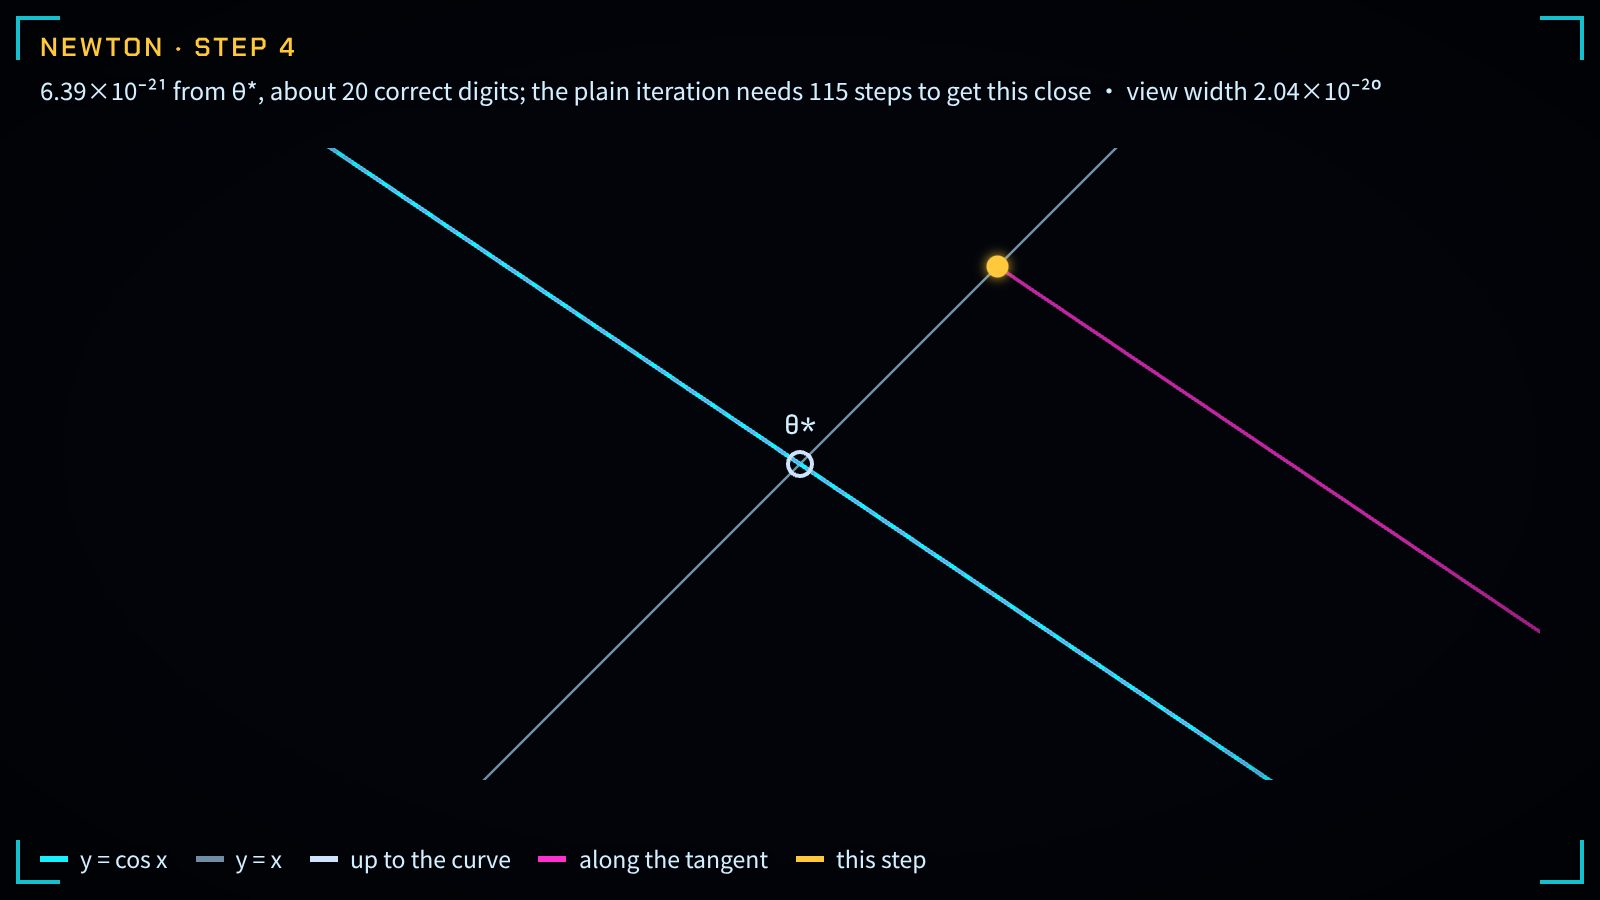
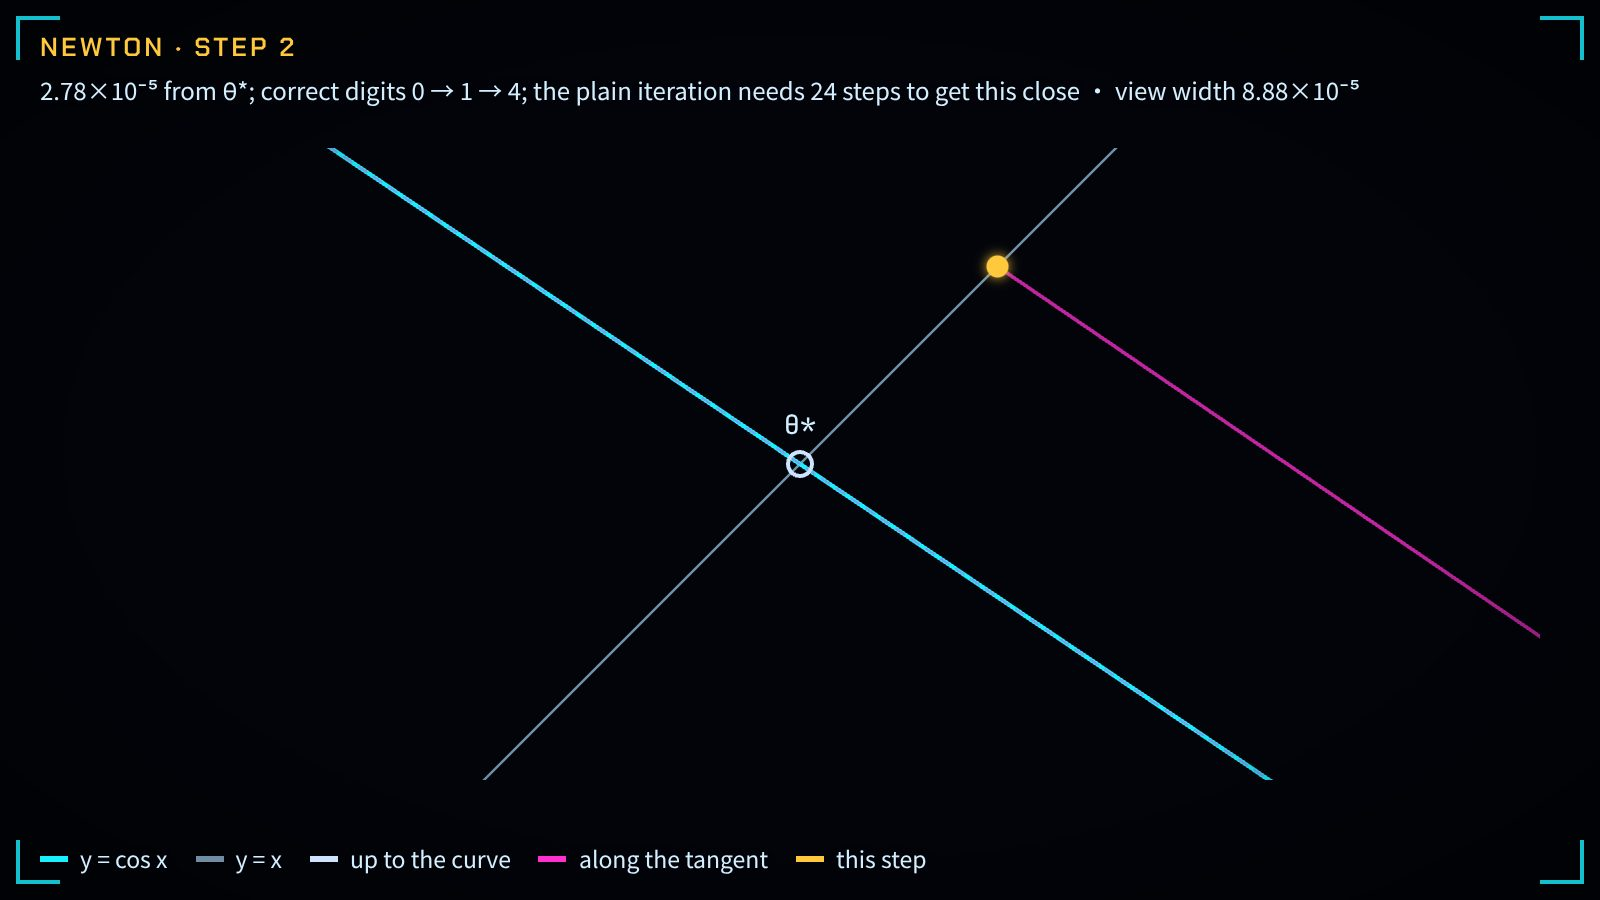
ch24: newton card stops at step 2 with its digit trail, full lab moved to the end of 24.5, two-series caption names the shared path

diff --git a/books/quantum-geometry/viz/fixed-point-convergence/main.js b/books/quantum-geometry/viz/fixed-point-convergence/main.js
@@ -280,9 +280,10 @@
           ? L('靠近 θ* 之后，每步误差乘以接近 −0.674 的数，而不是全局界的 0.8415；负号让折线一左一右地夹住不动点。', 'Near θ* each step multiplies the error by a number close to −0.674, not by the global 0.8415; the minus sign makes the path close in from alternating sides.')
           : L('从 1 出发，读数依次是 2、3/2、5/3、8/5……，相邻斐波那契数之比；每步误差乘以接近 −1/φ² ≈ −0.382 的数。', 'From 1 the readings are 2, 3/2, 5/3, 8/5, …, ratios of consecutive Fibonacci numbers; each step multiplies the error by a number close to −1/φ² ≈ −0.382.');
       } else {
-        const ps = picardSteps(S.map, S.x0c), digits = e > 0 ? Math.max(0, Math.floor(-Math.log10(e))) : 70;
+        const ps = picardSteps(S.map, S.x0c), dig = (x) => (x > 0 ? Math.max(0, Math.floor(-Math.log10(x))) : 70), digits = dig(e);
+        const trail = O.u.slice(0, kk + 1).map((x) => dig(Math.abs(x))).join(' → ');
         $('hudBig').textContent = L(`牛顿 · 第 ${kk} 步`, `NEWTON · STEP ${kk}`);
-        $('hudSub').textContent = L(`离 ${M.sym} 还差 ${sci(e)}，约 ${digits} 位正确；单纯迭代要走 ${ps[kk] == null ? '300 多' : ps[kk]} 步才到这么近`, `${sci(e)} from ${M.sym}, about ${digits} correct digits; the plain iteration needs ${ps[kk] == null ? 'over 300' : ps[kk]} steps to get this close`) + zoom;
+        $('hudSub').textContent = L(`离 ${M.sym} 还差 ${sci(e)}；正确位数 ${trail}；单纯迭代要走 ${ps[kk] == null ? '300 多' : ps[kk]} 步才到这么近`, `${sci(e)} from ${M.sym}; correct digits ${trail}; the plain iteration needs ${ps[kk] == null ? 'over 300' : ps[kk]} steps to get this close`) + zoom;
         $('roKeyL').textContent = L(`|δ${sub(kk)}| ÷ δ${sub(Math.max(kk - 1, 0))}²`, `|δ${sub(kk)}| ÷ δ${sub(Math.max(kk - 1, 0))}²`);
         $('roKey').innerHTML = kk > 0 && O.u[kk - 1] !== 0 ? fix(Math.abs(O.u[kk]) / (O.u[kk - 1] * O.u[kk - 1]), 6) : '—';
         $('roKeySub').textContent = L(`→ ${fix(Math.abs(M.quad), 4)}：误差每步约平方一次`, `→ ${fix(Math.abs(M.quad), 4)}: the error is roughly squared at each step`);
@@ -423,7 +424,7 @@
     golden: { scene: 'iter', map: 'golden', x0: 1, cam: 'whole', to: 8, still: 6 },
     rate: { scene: 'iter', map: 'cos', x0: 1, cam: 'follow', to: 20, still: 8 },
     circle: { scene: 'iter', map: 'cos', x0: 1, cam: 'circle', to: 14, still: 14 },
-    newton: { scene: 'newton', map: 'cos', x0: 1, cam: 'follow', to: 4, still: 4 },
+    newton: { scene: 'newton', map: 'cos', x0: 1, cam: 'follow', to: 2, still: 2 },
     rational: { scene: 'read', D: 0, to: NR - 1, still: 6 },
     ruler: { scene: 'read', D: 1000, at: 3 }
   };
@@ -431,7 +432,7 @@
     golden: ['从 x₀ = 1 反复按 1 + 1/x：折线依次落在 2、3/2、5/3、8/5……，一左一右夹住青色曲线与灰线的交点 φ ≈ 1.618。每一圈的宽度约是上一圈的 0.382 倍，正是品红切线斜率的大小。', 'Press 1 + 1/x again and again from x₀ = 1: the path lands on 2, 3/2, 5/3, 8/5, …, closing on φ ≈ 1.618, where the cyan curve meets the grey line, from alternating sides. Each turn is about 0.382 times as wide as the one before, the size of the slope of the magenta tangent.'],
     rate: ['从 θ₀ = 1 反复取余弦，画面跟着误差放大。放大之后曲线与品红切线重合，每一圈的形状都一样：误差每步乘以约 −0.674，比灰色虚线（最陡的 −sin 1 ≈ −0.84）平缓。', 'Take the cosine again and again from θ₀ = 1 while the view zooms with the error. Zoomed in, the curve lies on the magenta tangent and every turn has the same shape: the error is multiplied by about −0.674 per step, gentler than the dashed grey line (the steepest, −sin 1 ≈ −0.84).'],
     circle: ['同一张图加上单位圆。圆上的点 P = (θ*, sin θ*)：青色的横坐标是蛛网收进去的位置 θ*，品红的高度 λ = sin θ* ≈ 0.674 是每步缩小的比例，也是品红切线斜率的大小。', 'The same plane with the unit circle. The point P = (θ*, sin θ*) on it: its cyan abscissa is θ*, where the cobweb closes in, and its magenta height λ = sin θ* ≈ 0.674 is the ratio by which each step shrinks the error, the size of the slope of the magenta tangent.'],
-    newton: ['同样从 θ₀ = 1 出发，每一步先竖着读曲线的高度，再沿品红切线走到灰线。画面跟着放大：四步之内视野宽从约 0.6 缩到 10⁻²⁰ 量级，误差约每步平方一次。', 'Again from θ₀ = 1: each step reads the height of the curve, then follows the magenta tangent to the grey line. The view zooms along: within four steps its width falls from about 0.6 to the order of 10⁻²⁰, the error roughly squared at each step.'],
+    newton: ['同样从 θ₀ = 1 出发，每一步先竖着读曲线的高度，再沿品红切线走到灰线。画面跟着放大，停在第 2 步：视野宽约 10⁻⁴，琥珀色的 x₂ 刚沿上一步的品红切线落到灰线上，正确位数 0 → 1 → 4，误差约每步平方一次。拖时间轴看第 3、4 步：9 位、20 位。', 'Again from θ₀ = 1: each step reads the height of the curve, then follows the magenta tangent to the grey line. The view zooms along and stops at step 2, about 10⁻⁴ wide: the amber x₂ has just come down the magenta tangent of the previous step onto the grey line; correct digits 0 → 1 → 4, the error roughly squared at each step. Scrub the rail for steps 3 and 4: 9 and 20 digits.'],
     rational: ['θ* 的渐近分数 2/3、3/4、14/19、17/23、694/939……一个个落在灰线上（琥珀色是当前这个）。品红竖线是到余弦曲线的落差，即残差 |cos q − q|：它总停在两条灰色虚线张成的楔形里，画面放大了千万倍，它仍在。', 'The convergents of θ*, 2/3, 3/4, 14/19, 17/23, 694/939, …, land one by one on the grey line (amber is the current one). The magenta upright is the drop to the cosine curve, the residual |cos q − q|: it always stays inside the wedge of the two dashed grey lines, and with the view magnified ten million times it is still there.'],
     ruler: ['琥珀色的 17/23 与虚线标出的尺子读数 739/1000 并排：一千等分的尺子离 θ* 最近的一格，残差约是二十三等分那一格的两倍。', 'The amber 17/23 next to the dashed ruler reading 739/1000: the tick nearest θ* on a ruler of a thousand divisions leaves about twice the residual of the tick on a ruler of twenty-three.']
   };

diff --git a/books/quantum-geometry/en/ch24-cosine-fixed-points-and-self-reference.md b/books/quantum-geometry/en/ch24-cosine-fixed-points-and-self-reference.md
@@ -419,7 +419,7 @@ The aphorism is stated; now let us do the arithmetic. The cosine table in [@ex-d
 2. If the ruler reads not only the projection $\cos\theta$ but also the orthogonal component $\sin\theta$, how much faster does the loop close?
 
 ::: {.viz src="fixed-point-convergence" preset="newton" height="500"}
-**Follow the tangent, double the digits.** Again from $\theta_0 = 1$, each step reads the height of the curve and then follows the magenta tangent to the grey line $y = x$. The view zooms along: within four steps its width falls from about $0.6$ to the order of $10^{-20}$, the error being roughly squared at each step; the plain iteration needs $115$ steps to match step $4$ (numerical check in [@ex-dottie-rate-newton-rational]).
+**Follow the tangent, double the digits.** Again from $\theta_0 = 1$, each step reads the height of the curve and then follows the magenta tangent to the grey line $y = x$. The view zooms along and stops at step $2$, about $10^{-4}$ wide. The amber $x_2$ has just come down the magenta tangent of the previous step onto the grey line, $2.78\times10^{-5}$ from the white ring $\theta^*$; at this magnification the cyan curve is already too straight to tell from its tangent. The correct decimal digits run $0$, $1$, $4$, the error being roughly squared at each step; the plain iteration needs $24$ steps to match this step (numerical check in [@ex-dottie-rate-newton-rational]).
 :::
 
 3. How close to $\cos q = q$ can a ruler with finitely many rational tick marks get?
@@ -547,10 +547,6 @@ The last table of [@ex-dottie-rate-newton-rational] shows that refining the tick
 **Twenty-three divisions beat a thousand.** The amber $17/23$ next to the dashed ruler reading $739/1000$: the tick nearest $\theta^*$ on a thousandths ruler leaves about twice the residual of $17/23$ ($1.42\times10^{-4}$ against $7.58\times10^{-5}$).
 :::
 
-::: {.viz src="fixed-point-convergence" height="560"}
-**How fixed points close in: the full lab.** Three scenes on one cobweb plane: iteration ($\cos x$ or $1 + 1/x$, with a draggable start and three cameras), Newton's method, and rational readings (with an adjustable ruler). Qualitative cosine convergence and conditional asymptotic factors follow from the reuse derivation in [@ex-ch33-mutual-cosine-monotonic-lock]; Newton's method, numerical values, and residual bounds retain their literature or numerical boundaries; the green boxes cite only [@cor-golden-fixed-point-unique] and [@thm-dottie-rational-inverse-endpoint].
-:::
-
 Rational readings never line up. What about a different kind of closure: instead of asking the projection to return to itself, ask a rotation to return to its starting point? The answer is again no, and this time no conjecture is needed.
 
 ::: {.remark #rem-dottie-angle-incommensurable title="θ* and π Are Incommensurable: Rotation by the Fixed-Point Angle Never Closes (Corollary of a Literature Result, Not Formalized in This Book)"}
@@ -609,6 +605,10 @@ The average of $f_1$ tends to $0$ quickly: the geometric sum gives the bound $\f
 :::
 
 Within a hundred steps, the orbit with step $\theta^*$ looks almost indistinguishable from a regular heptadecagon; equidistribution shows itself only on a longer time scale. An observer with finitely many steps sees a closed polygon; the whole circle appears only in the limit of infinitely many.
+
+::: {.viz src="fixed-point-convergence" height="560"}
+**How fixed points close in: the full lab.** Three scenes on one cobweb plane: iteration ($\cos x$ or $1 + 1/x$, with a draggable start and three cameras), Newton's method, and rational readings (with an adjustable ruler). Qualitative cosine convergence and conditional asymptotic factors follow from the reuse derivation in [@ex-ch33-mutual-cosine-monotonic-lock]; Newton's method, numerical values, and residual bounds retain their literature or numerical boundaries; the green boxes cite only [@cor-golden-fixed-point-unique] and [@thm-dottie-rational-inverse-endpoint].
+:::
 
 ## 24.6 "Is $\pi$ a Projection of $\theta$?": Two Mutually Inverse Series, Kepler's Equation, and Half-Time Free Fall {#sec-ch24-6}
 
@@ -826,7 +826,7 @@ The ratio of successive terms of $A$ tends to $(\theta^*)^2 \approx 0.546$. The 
 So two statements hold together without contradiction: analytically, each of $\pi$ and $\theta^*$ is the value of a rational power series at the other ([@thm-dottie-rational-inverse-endpoint], [@ex-dottie-pi-series]); algebraically, under Schanuel's conjecture ([@conj-schanuel-dottie]), no polynomial relation holds between them. $A$ and $B$ are infinite series, not polynomials; the finite truncations listed in the table all leave a nonzero difference. Nonvanishing of general truncation tails, a pattern of coefficient signs, and computational resource bounds are outside the endpoint theorem.
 
 ::: {.figure src="ch24-two-series"}
-**$\pi$ and $\theta^*$ are the two coordinates of one point on one curve.** The cyan curve is $A(x) = 2x + 2\arcsin x$. Going up from $\theta^*$ on the horizontal axis and then left reads off $\pi = A(\theta^*)$: the cyan arrows. Going right from $\pi$ on the vertical axis and then down reads back $\theta^* = B(\pi)$: the dashed magenta arrows. The absolute convergence and sum of $B$ at $\pi$ are [@thm-dottie-rational-inverse-endpoint]; the arcsine expansion behind $\pi = A(\theta^*)$ is in [@rem-arcsin-series-derivation] (literature result, not formalized in this book).
+**$\pi$ and $\theta^*$ are the two coordinates of one point on one curve.** The cyan curve is $A(x) = 2x + 2\arcsin x$. Going up from $\theta^*$ on the horizontal axis and then left reads off $\pi = A(\theta^*)$: the cyan arrows. Going right from $\pi$ on the vertical axis and then down reads back $\theta^* = B(\pi)$ along the same path: the dashed magenta arrows laid over the cyan ones. The absolute convergence and sum of $B$ at $\pi$ are [@thm-dottie-rational-inverse-endpoint]; the arcsine expansion behind $\pi = A(\theta^*)$ is in [@rem-arcsin-series-derivation] (literature result, not formalized in this book).
 :::
 
 **Where the fixed point lives: the half-time of a cycloid.** How the auxiliary equation $\eta + \sin\eta = \pi/2$ appears in Kepler's equation and Newtonian radial free fall is worked out in [@ex-dottie-free-fall].
